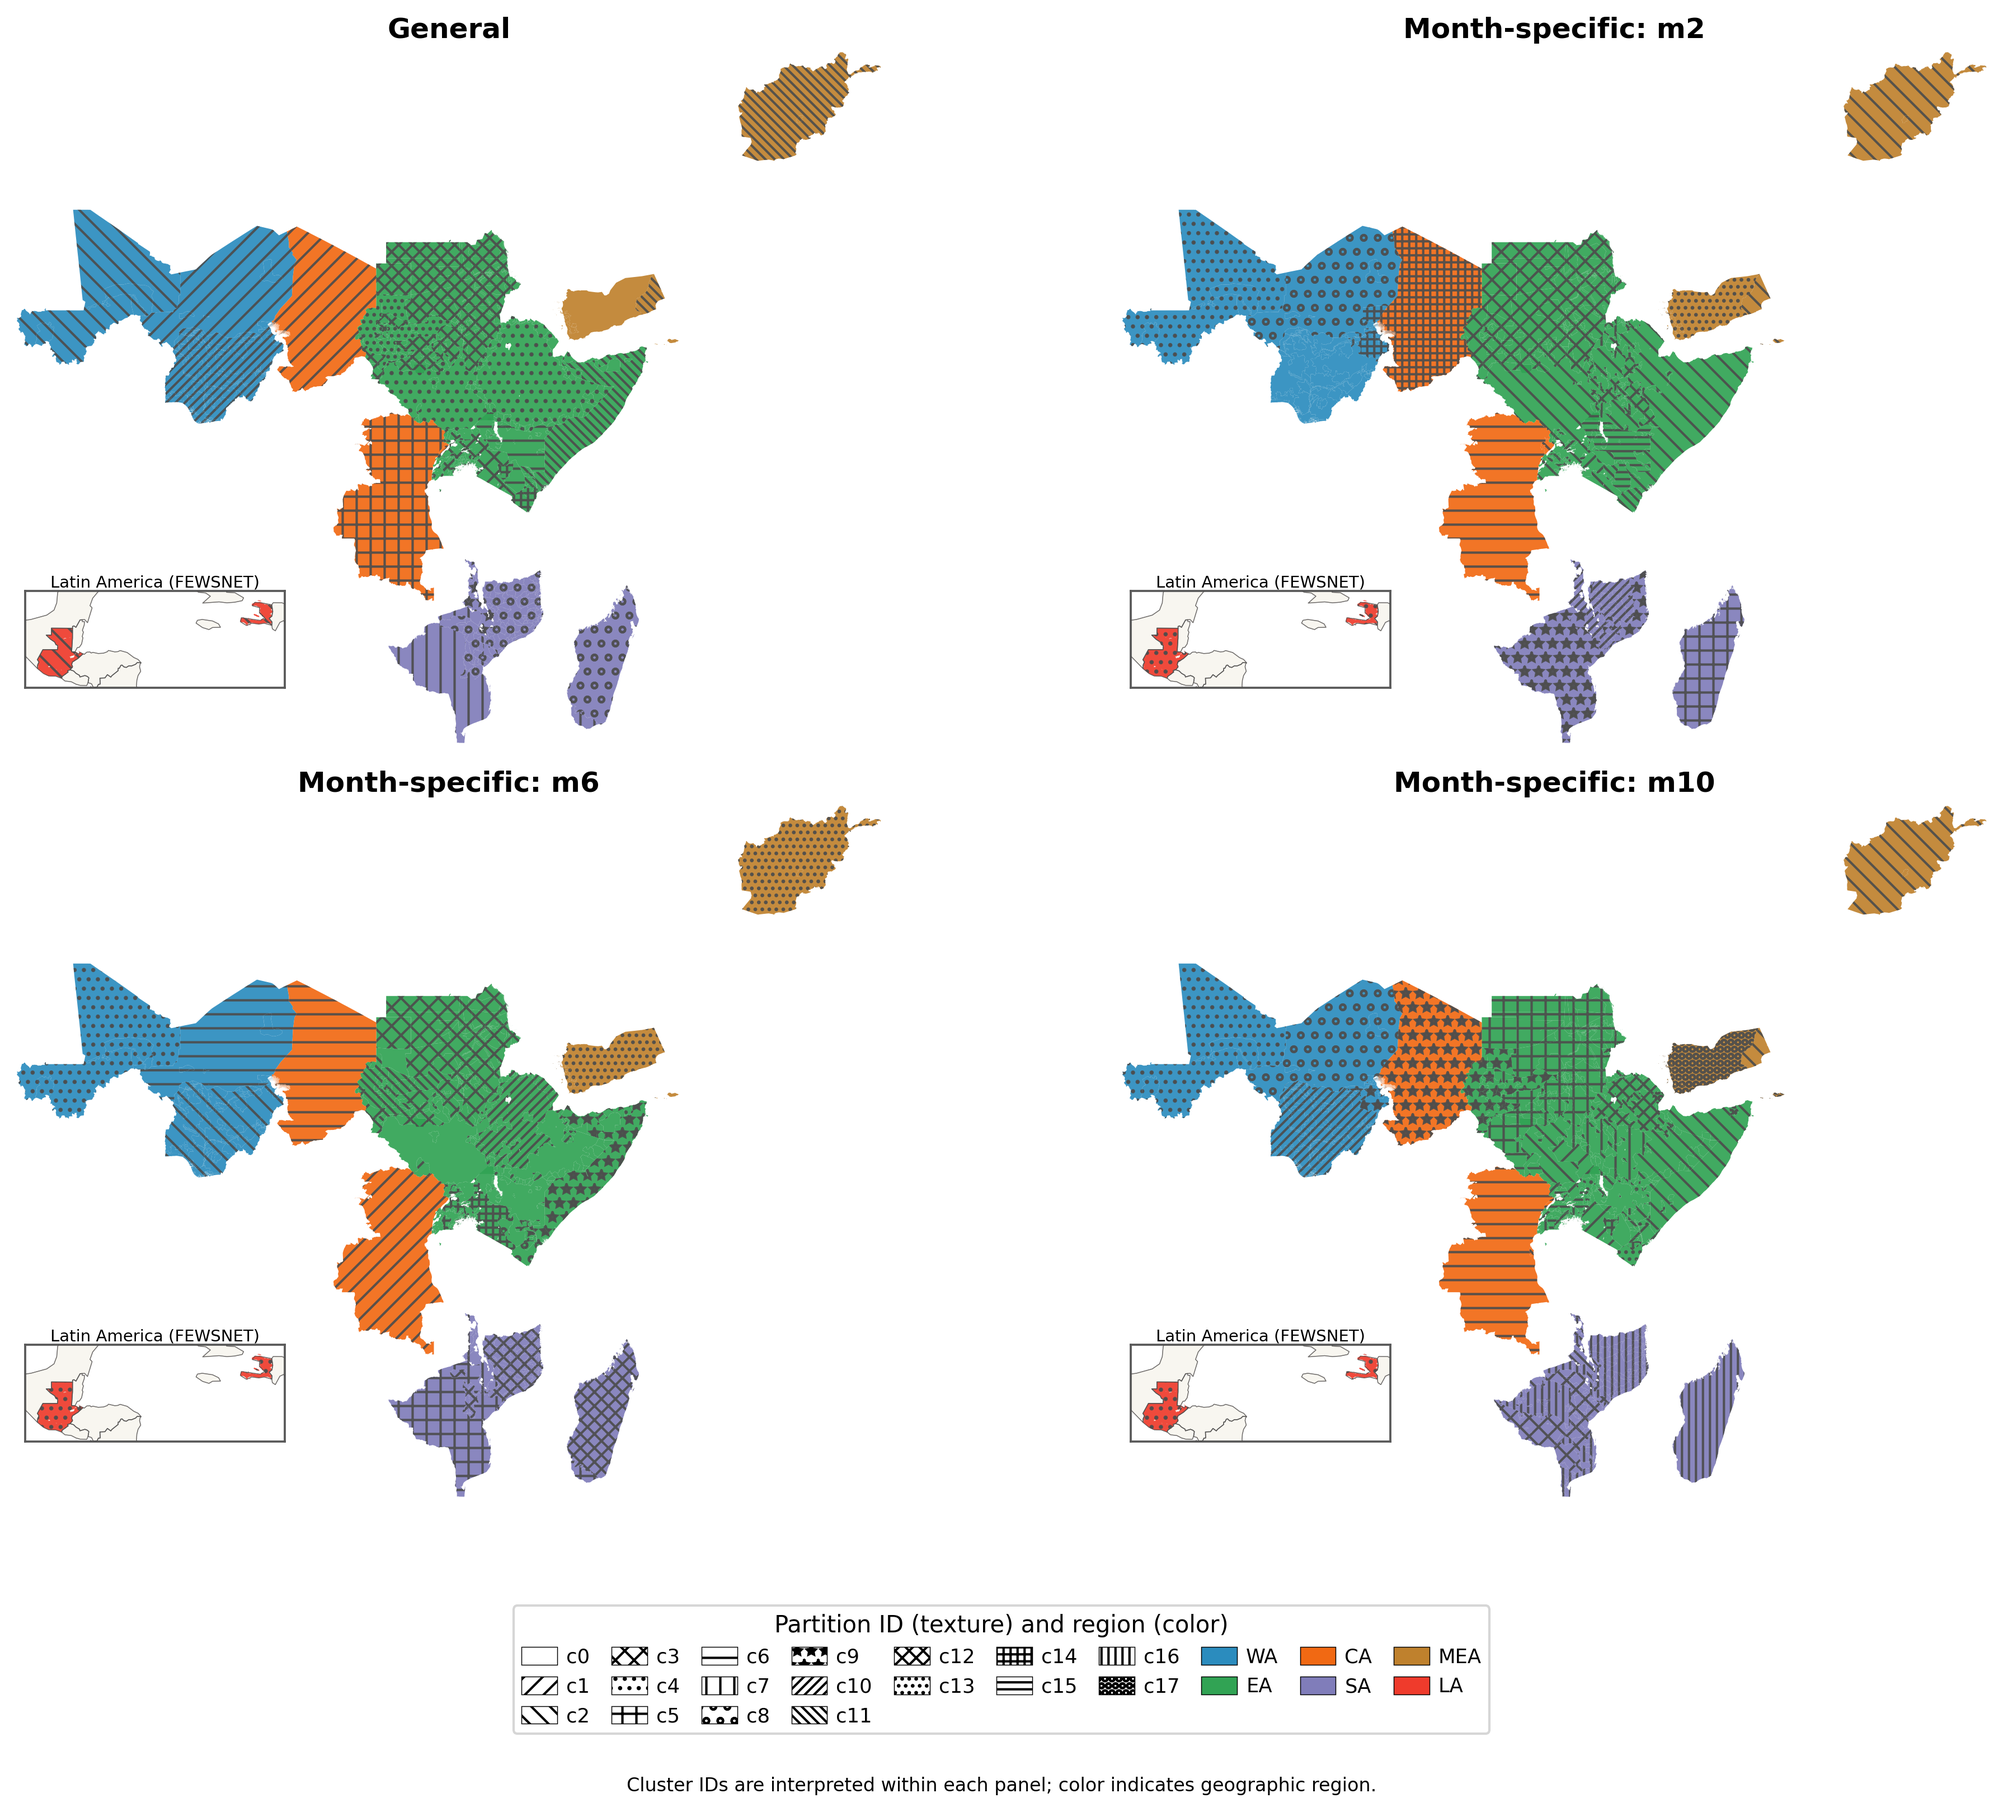
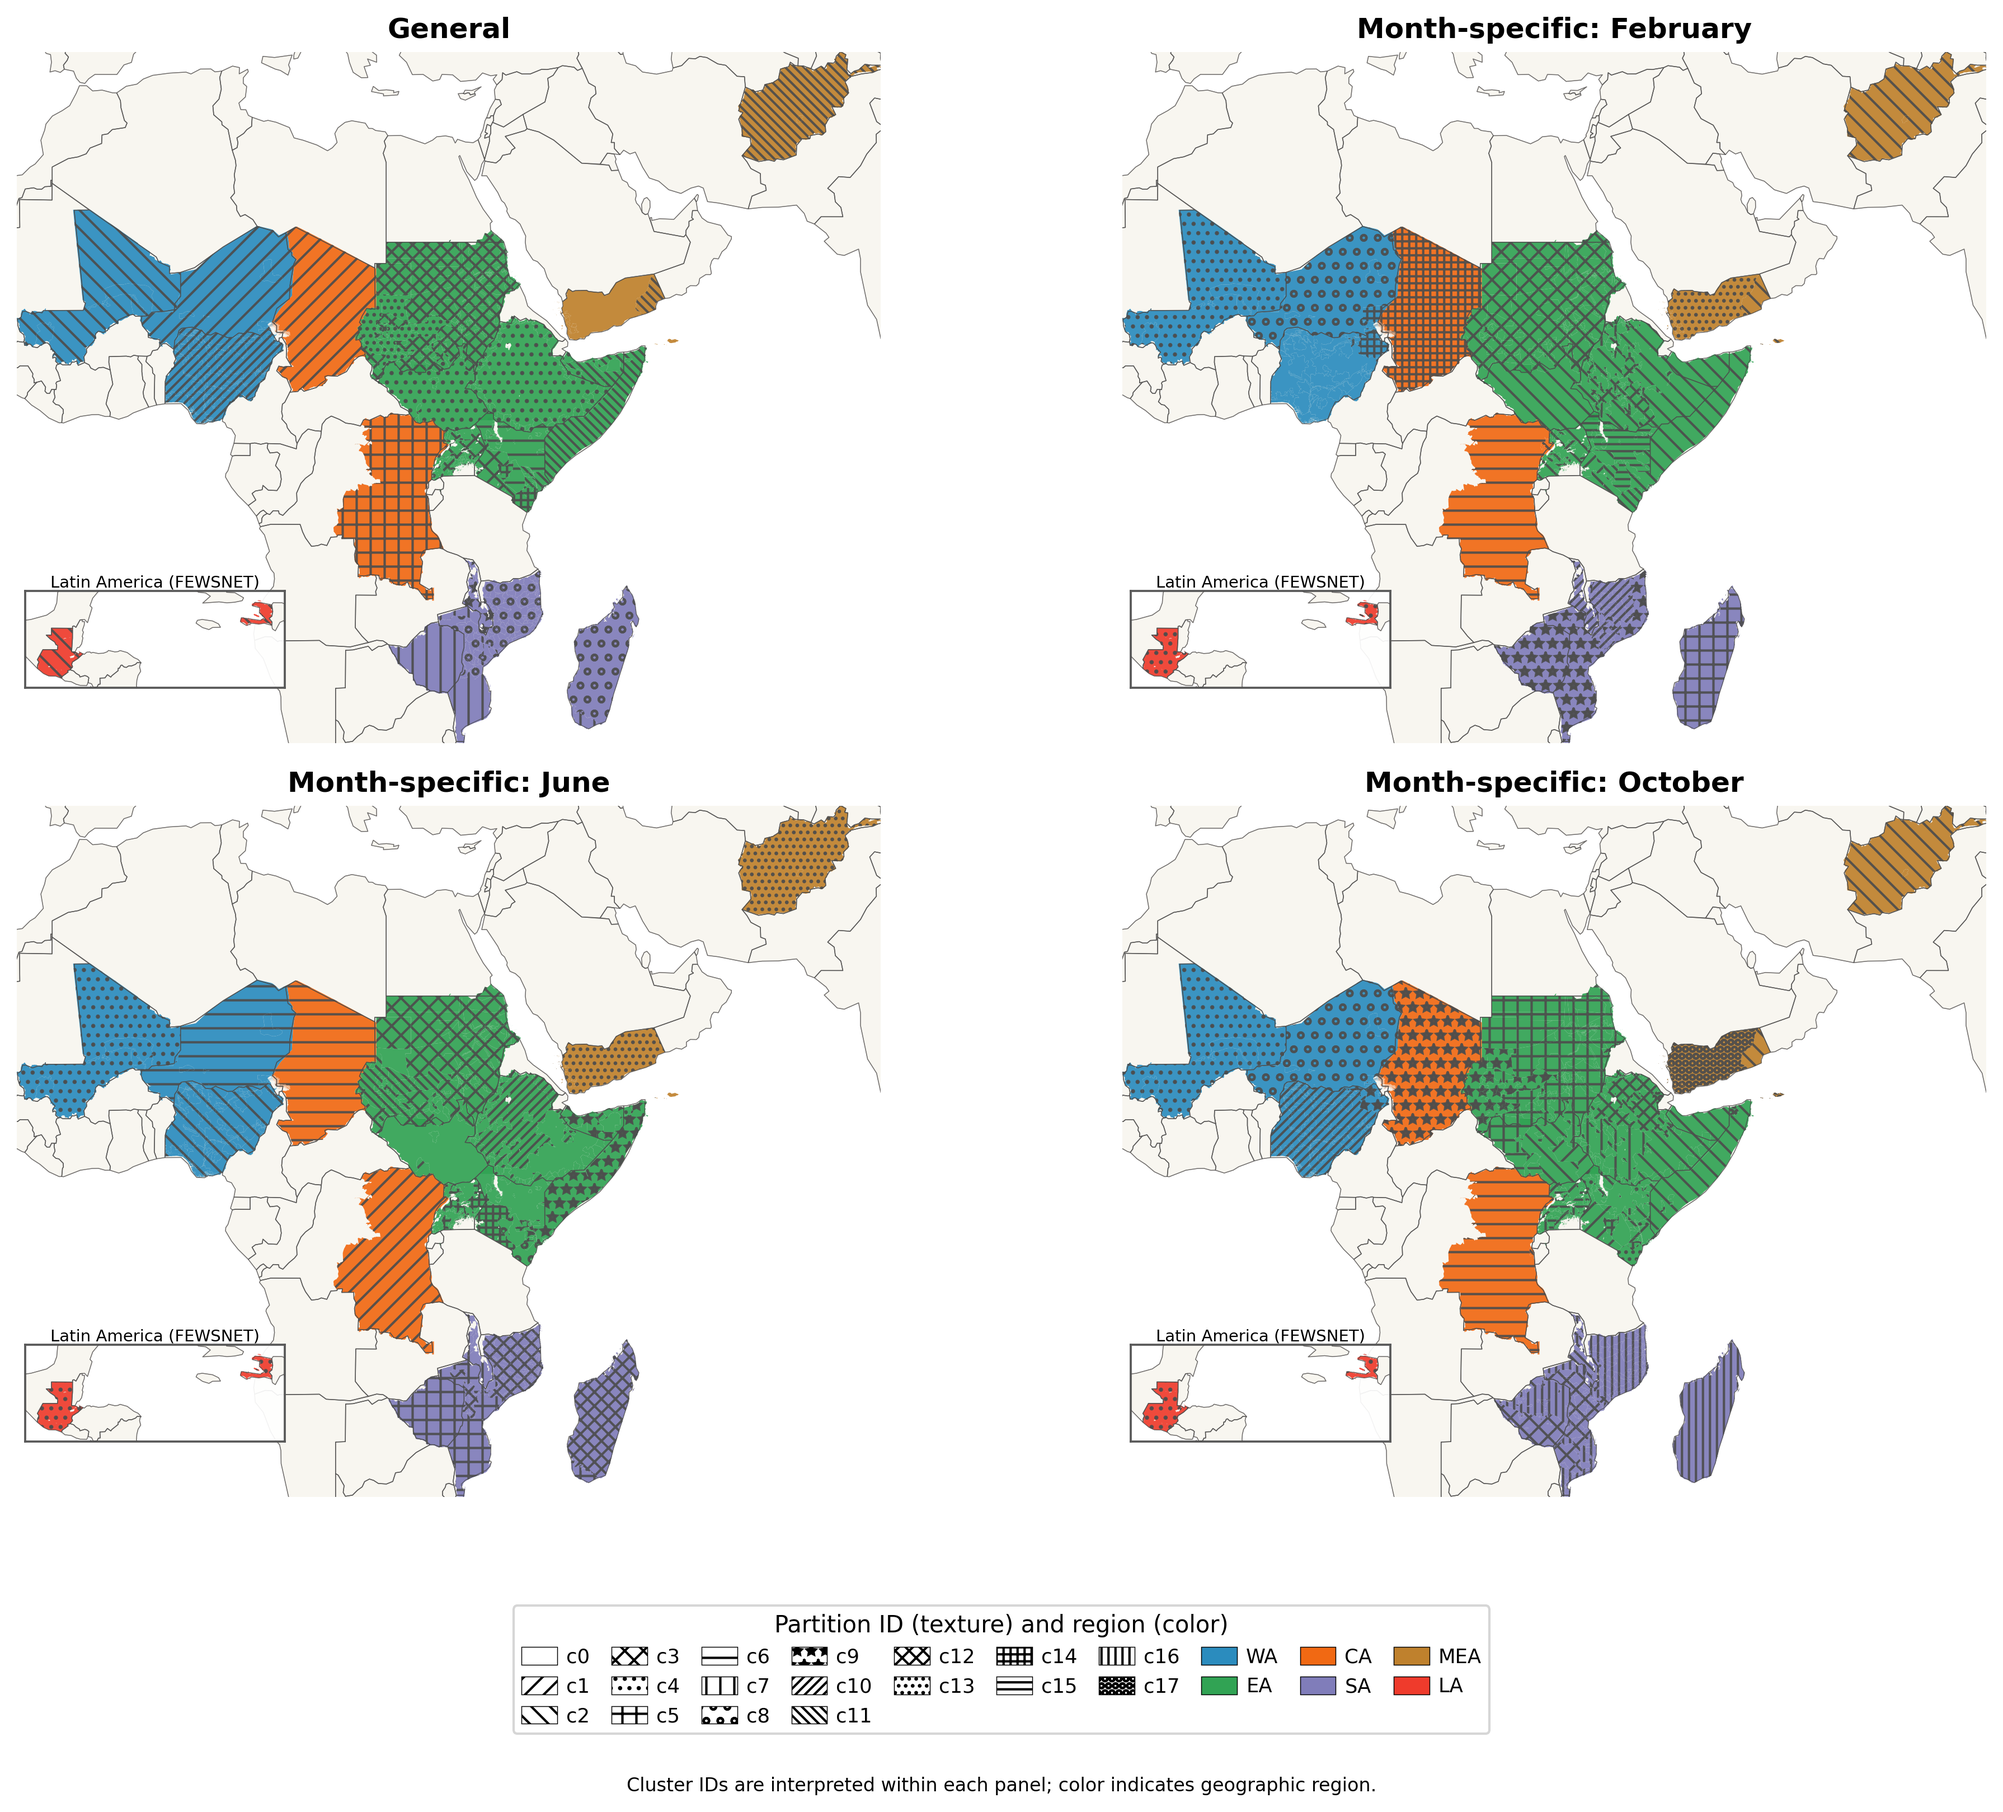
label month-specific cluster map panels

diff --git a/scripts/paper_artifacts/plot_global_cluster_map_2x2_refined.py b/scripts/paper_artifacts/plot_global_cluster_map_2x2_refined.py
@@ -35,9 +35,9 @@ MODEL_SPECS = {
 PANEL_ORDER = ("general", "m2", "m6", "m10")
 PANEL_TITLES = {
     "general": "General",
-    "m2": "Month-specific: m2",
-    "m6": "Month-specific: m6",
-    "m10": "Month-specific: m10",
+    "m2": "Month-specific: February",
+    "m6": "Month-specific: June",
+    "m10": "Month-specific: October",
 }
 TAG_PATTERN = re.compile(
     r"cluster_mapping_k40_nc(?P<nc>\d+)_(?P<tag>general|m2|m6|m10)(?:_refined.*)?\.csv$"
